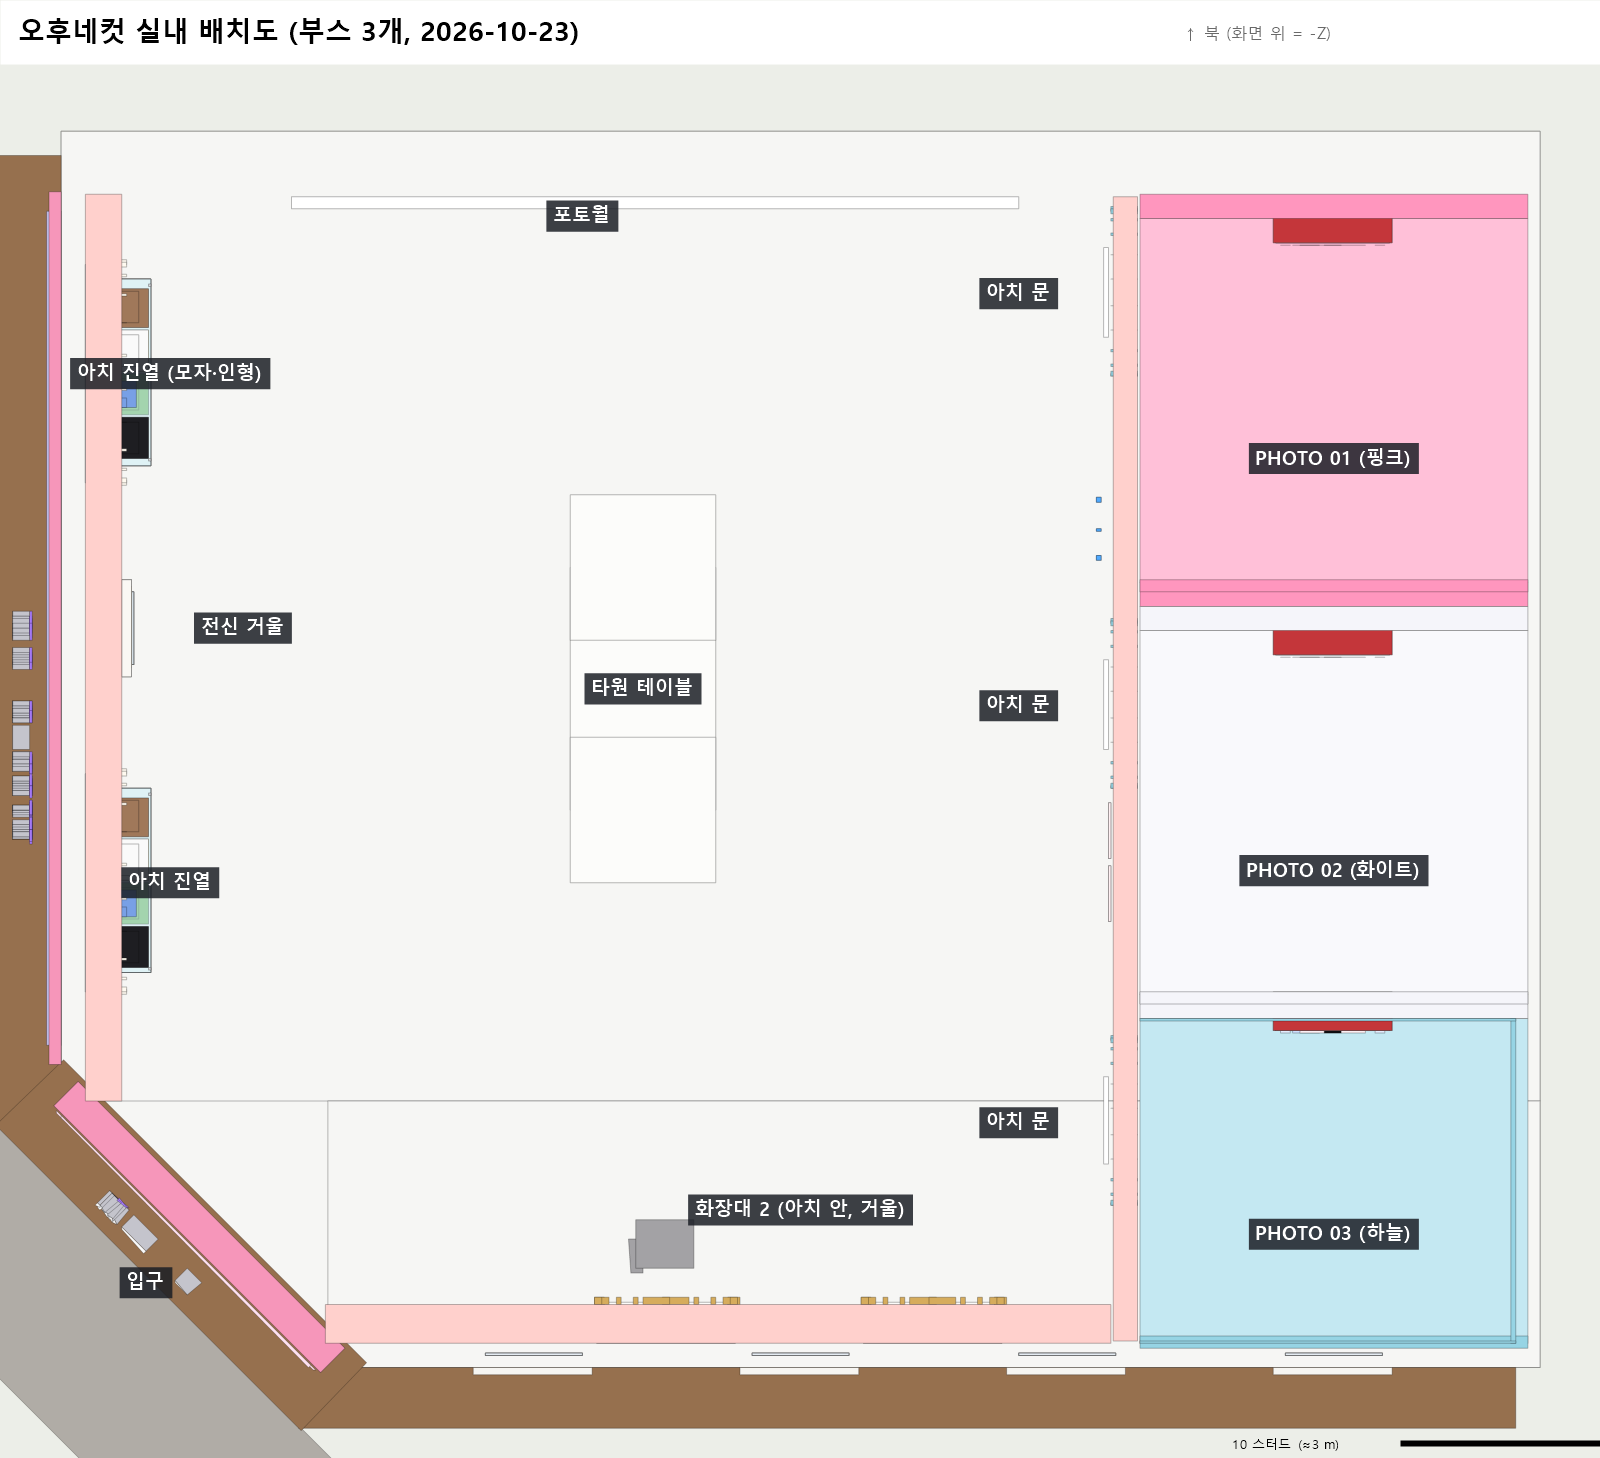
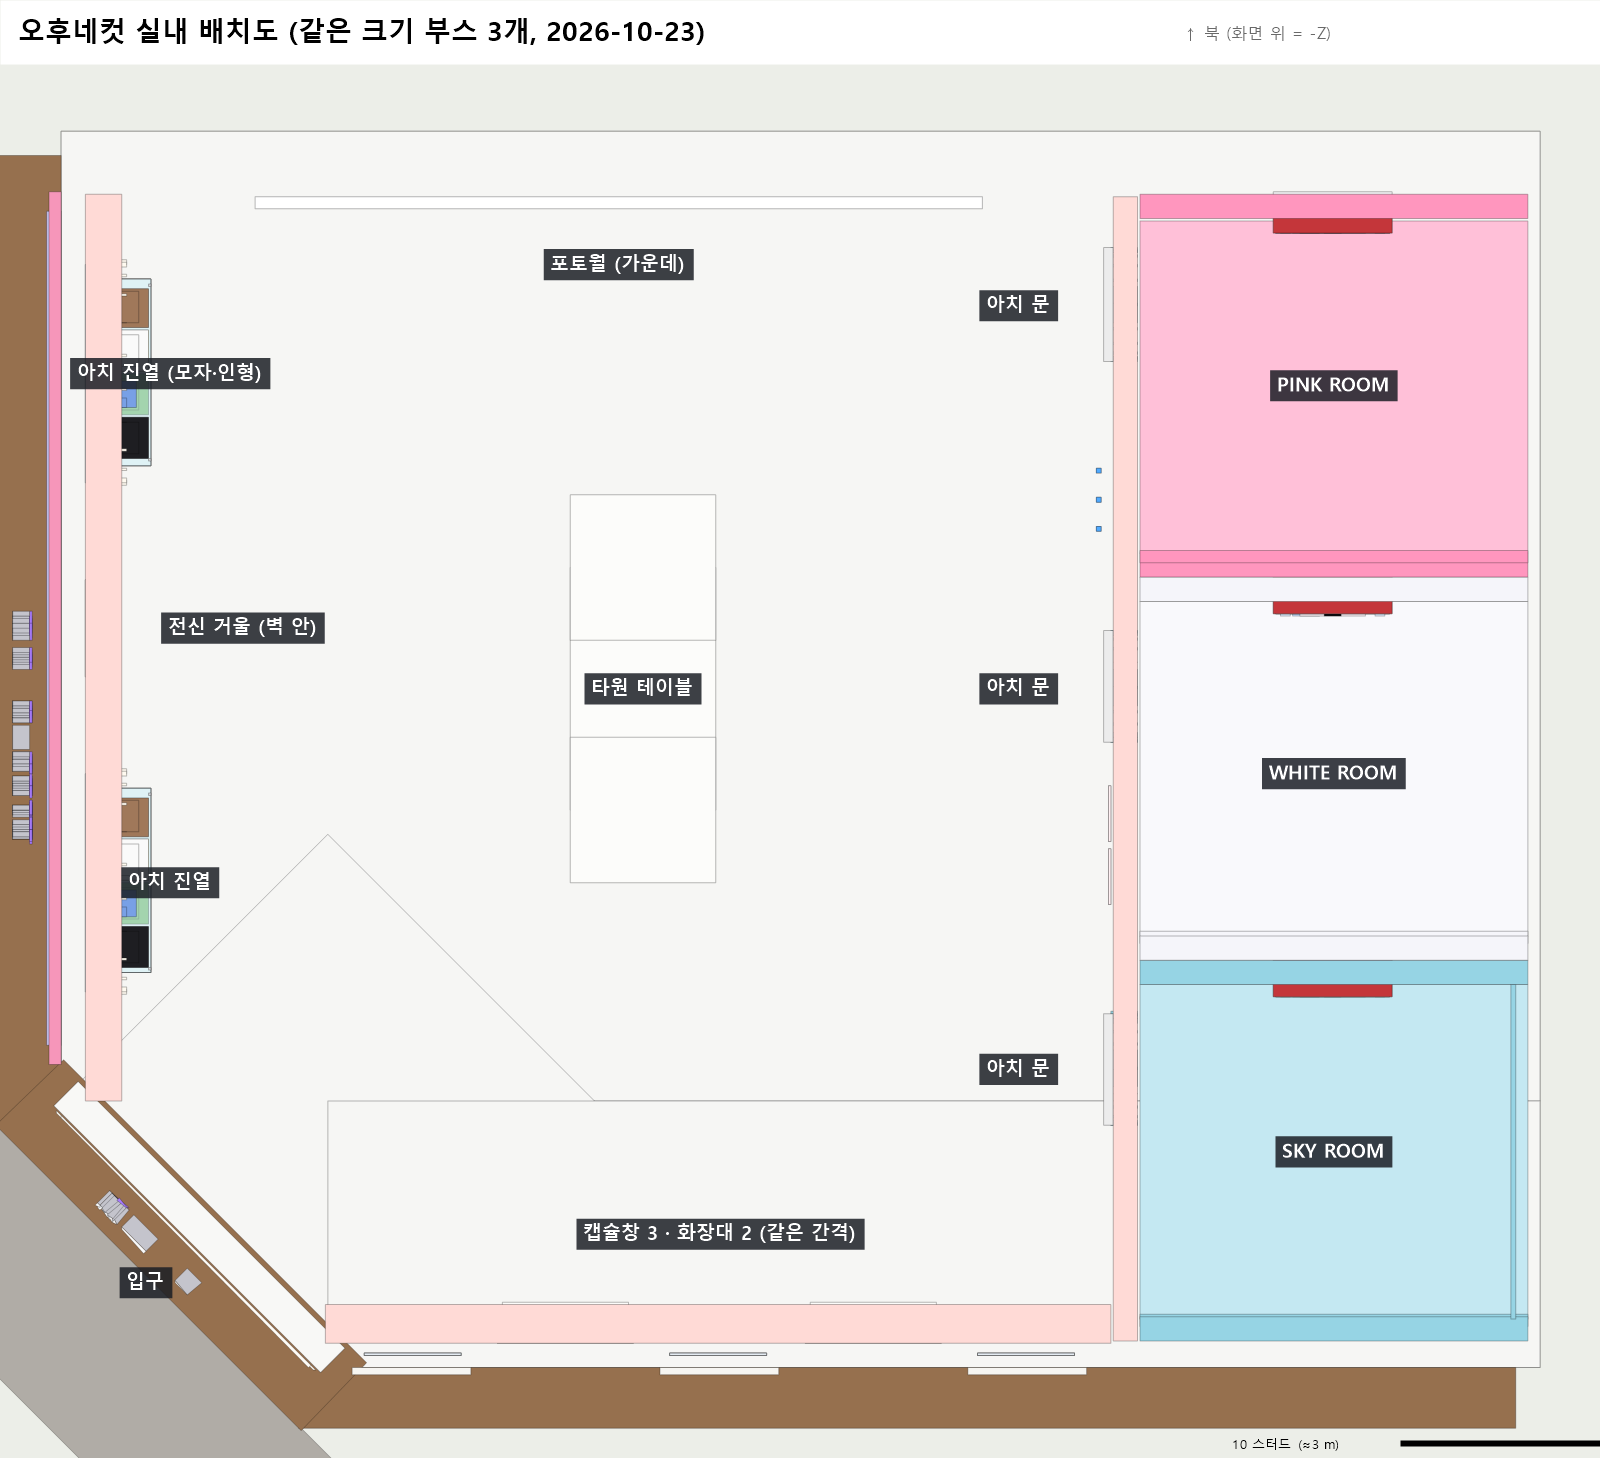
Photo booth: three equal booths, ROOM LED signs, even windows/vanities, white entrance, recessed mirror (D-132)

diff --git a/docs/06_LOG/DECISIONS.md b/docs/06_LOG/DECISIONS.md
@@ -318,3 +318,4 @@ D-128 — 오후네컷 front (user 2026-10-23): the west poster fills the face u
 D-129 — 오후네컷 interior v2 (user plan + photos 2026-10-23): pink plaster walls (255,192,188) instead of white tiles, white tile floor with a grey diagonal grid, ceiling lights at 0.3 (ten lights at 1.2 blew the room out); west wall: two recessed arches (CSG), sky-blue inside with a lit rim, glass shelves of caps and plush, a pill mirror between them; booth wall: smaller gold-rimmed arches near each booth's north end, curtains gone; each booth now shoots north → south: CameraPoint on the north wall (photo machine there), Stand south of it facing it, Backdrop on the south wall, an ExitPoint outside the arch (PhotoBoothService.exitFor uses it); south wall: two arched make-up vanities between the capsule windows (white tiles, gold rim, bulb mirror, floating counter), pink liner with pill holes around the windows; a white oval table in the hall. Revert restores OrigSize and removes LayoutAdded parts.
 D-130 — 오후네컷 booths together (user 2026-10-23): the PINK booth sits against the north wall and the WHITE booth right against the PINK one (no overlap; booth models move with TempOrig/TempDelta so revert puts them back); the pink booth wall moves to x 91.9..92.9, right against the booths' west side, and runs on to the south wall, closing off the leftover space behind the booths by the capsule windows (the window at x 101 is now inside it); the booth arches lose the gold frame and get a sky-blue lining inside the opening; the arches, exits and notices follow the booths.
 D-131 — 오후네컷 interior round 3 (user 2026-10-23): no grid lines on the floor (they also ran out onto the deck); pink one tone lighter (255,208,204); the entrance wall is pink above the doors and the ceiling closes over the cut corner (brick showed); the south wall is a thick pink wall like the west one, cut through in the capsule-window shape, with an arched recess per make-up vanity (vanity inside, mirror lower and taller); live mirrors: parts tagged Mirror get a ViewportFrame (MirrorController, client) with the room and nearby characters copied at their mirror image and an off-axis camera at the eye, so players see themselves (pill mirror clipped by a rounded stroke mask); a third booth PhotoBooth_SKY (sky blue, BoothKey SKY) in the closed space behind the booths, a copy of WHITE 13.3 deep with camera / stand / backdrop closer (CamDZ / StandDZ / BackDZ / ArchDZ attributes), PHOTO 03 arch; each booth has a soft light under its ceiling.
+D-132 — 오후네컷 interior round 4 (user 2026-10-23): the three booths are the same size (north wall to south wall split in three, 15.8 each, own 1-thick walls; SKY is a copy of WHITE) with floors flush with the lobby floor; booth arches 2/3 as wide (4.67); LED light-box signs PINK ROOM / WHITE ROOM / SKY ROOM (white rounded box, black letters) replace PHOTO 01-03; the capsule window by the sky booth is gone and the three windows and two vanities are spaced with equal gaps along the inside of the south wall (x 59.5..91.9); no gold rim on the vanity arches; the entrance frame (posts, mullions, head, door frames, night glow) is white; the pill mirror sits in a pill recess cut into the pink wall; the photo wall is centred on the north wall as seen inside (x 71.5); pink lightened to (255,218,214).
